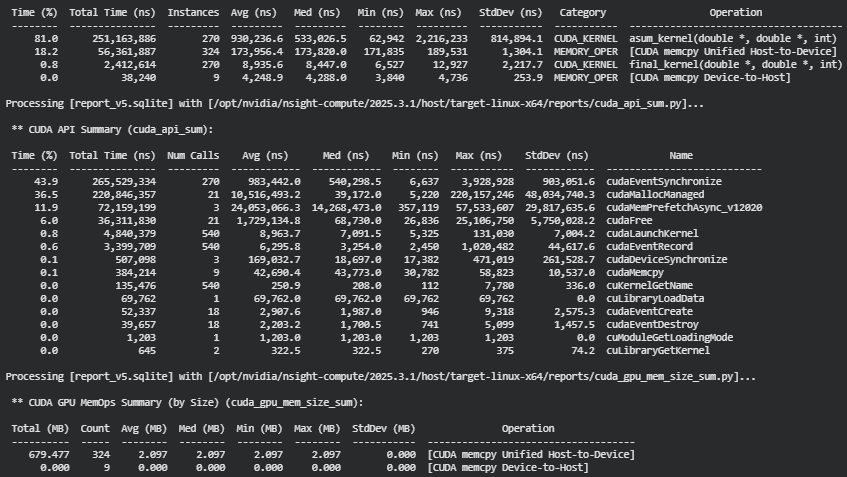
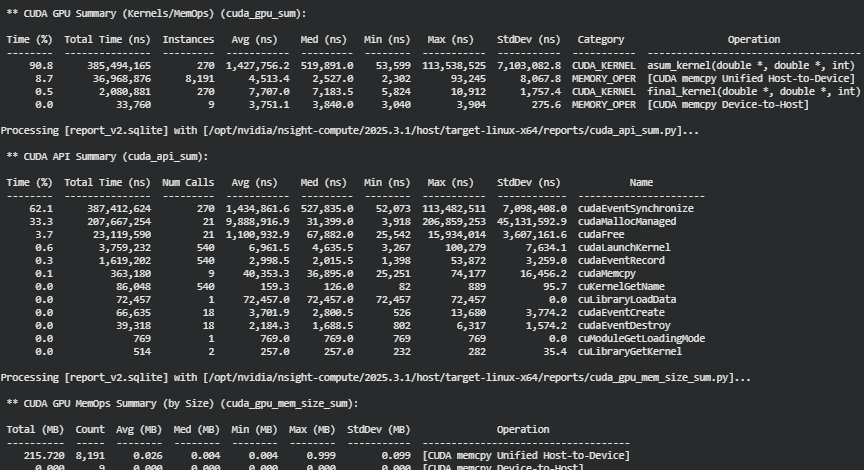
updated information to match ss

Changed region(s): [[0.0, 0.0, 1.0, 1.0]]

diff --git a/README.md b/README.md
@@ -75,35 +75,83 @@ The C implementation serves as the baseline for checking the correctness of the 
 
 ### CUDA V2: Unified Memory without Prefetch
 
-![CUDA V2 Output](Screenshots/nvcc/CudaV2_2^20.png)
+**2^20:**
 
 ![CUDA V2 Output](Screenshots/nvcc/CudaV2_2^20.png)
 
-![CUDA V2 Output](Screenshots/nvcc/CudaV2_2^20.png)
+![CUDA V2 Output](Screenshots/nvcc/CudaV2_2^20_C.png)
+
+**2^24:**
+
+![CUDA V2 Output](Screenshots/nvcc/CudaV2_2^24.png)
+
+![CUDA V2 Output](Screenshots/nvcc/CudaV2_2^24_C.png)
+
+**2^26:**
+
+![CUDA V2 Output](Screenshots/nvcc/CudaV2_2^26.png)
+
+![CUDA V2 Output](Screenshots/nvcc/CudaV2_2^26_C.png)
 
 ### CUDA V3: Unified Memory with Prefetch
 
+**2^20:**
+
 ![CUDA V3 Output](Screenshots/nvcc/CudaV3_2^20.png)
+
+![CUDA V3 Output](Screenshots/nvcc/CudaV3_2^20_C.png)
+
+**2^24:**
 
 ![CUDA V3 Output](Screenshots/nvcc/CudaV3_2^24.png)
 
+![CUDA V3 Output](Screenshots/nvcc/CudaV3_2^24_C.png)
+
+**2^26:**
+
 ![CUDA V3 Output](Screenshots/nvcc/CudaV3_2^26.png)
+
+![CUDA V3 Output](Screenshots/nvcc/CudaV3_2^26_C.png)
 
 ### CUDA V4: Unified Memory with Prefetch and Explicit Page Creation
 
+**2^20:**
+
 ![CUDA V4 Output](Screenshots/nvcc/CudaV4_2^20.png)
+
+![CUDA V4 Output](Screenshots/nvcc/CudaV4_2^20_C.png)
+
+**2^24:**
 
 ![CUDA V4 Output](Screenshots/nvcc/CudaV4_2^24.png)
 
+![CUDA V4 Output](Screenshots/nvcc/CudaV4_2^24_C.png)
+
+**2^26:**
+
 ![CUDA V4 Output](Screenshots/nvcc/CudaV4_2^26.png)
+
+![CUDA V4 Output](Screenshots/nvcc/CudaV4_2^26_C.png)
 
 ### CUDA V5: Unified Memory with Prefetch, Explicit Page Creation, and Memory Advice
 
+**2^20:**
+
 ![CUDA V5 Output](Screenshots/nvcc/CudaV5_2^20.png)
+
+![CUDA V5 Output](Screenshots/nvcc/CudaV5_2^20_C.png)
+
+**2^24:**
 
 ![CUDA V5 Output](Screenshots/nvcc/CudaV5_2^24.png)
 
+![CUDA V5 Output](Screenshots/nvcc/CudaV5_2^24_C.png)
+
+**2^26:**
+
 ![CUDA V5 Output](Screenshots/nvcc/CudaV5_2^26.png)
+
+![CUDA V5 Output](Screenshots/nvcc/CudaV5_2^26_C.png)
 
 All CUDA configurations passed the correctness checks against the C implementation.
 
@@ -135,10 +183,10 @@ Across the four CUDA variants, the `asum_kernel` accounts for the largest portio
 
 | Variant | Kernel Execution Time | Kernel Percentage | Unified Memory HtoD Time | HtoD Percentage |
 |---|---:|---:|---:|---:|
-| V2 | 390.048 ms | 91.2% | 36.079 ms | 8.4% |
-| V3 | 241.486 ms | 80.6% | 56.309 ms | 18.8% |
-| V4 | 239.361 ms | 80.5% | 56.300 ms | 18.9% |
-| V5 | 240.870 ms | 80.5% | 56.333 ms | 18.8% |
+| V2 | 385.494 ms | 90.8% | 36.969 ms | 8.7% |
+| V3 | 261.944 ms | 81.6% | 56.326 ms | 17.5% |
+| V4 | 251.452 ms | 81.0% | 56.340 ms | 18.2% |
+| V5 | 251.164 ms | 81.0% | 56.362 ms | 18.2% |
 
 
 The profiling results show that GPU kernel execution accounts for the largest portion of GPU activity across all four CUDA variants. The main ASUM kernel, `asum_kernel`, performs the majority of the computation, while the final reduction kernel, `final_kernel`, combines the partial sums produced by each block.
@@ -157,9 +205,9 @@ The following table presents the average execution time of the C implementation 
 
 | Array Size | C Answer Key | Average Execution Time | Minimum Time | Maximum Time |
 |---|---:|---:|---:|---:|
-| 2^20 | 549755289600 | 3.5865 ms | 3.306 ms | 3.925 ms |
-| 2^24 | 140737479966720 | 57.4267 ms | 55.989 ms | 60.720 ms |
-| 2^26 | 2251799780130816 | 239.9305 ms | 224.577 ms | 260.875 ms |
+| 2^20 | 549755289600 | 3.2959 ms | 3 ms | 3.667 ms |
+| 2^24 | 140737479966720 | 54.219 ms | 51.12 ms | 60.942 ms |
+| 2^26 | 2251799780130816 | 225.2845 ms | 209.655 ms | 257.67 ms |
 
 ### B. CUDA Average Kernel Execution Times
 
@@ -169,33 +217,33 @@ The following tables show the average kernel execution times of each CUDA varian
 
 | Array Size | Block Size 256 | Block Size 512 | Block Size 1024 |
 |---|---:|---:|---:|
-| 2^20 | 0.0481 ms | 0.0842 ms | 0.1707 ms |
-| 2^24 | 0.5161 ms | 0.5206 ms | 0.5230 ms |
-| 2^26 | 2.0549 ms | 2.0367 ms | 2.0394 ms |
+| 2^20 | 0.1623 ms | 0.1966 ms | 0.3329 ms |
+| 2^24 | 1.367 ms | 0.5605 ms | 0.7157 ms |
+| 2^26 | 5.3368 ms | 2.1433 ms | 2.0639 ms |
 
 #### CUDA V3: Unified Memory with Prefetch
 
 | Array Size | Block Size 256 | Block Size 512 | Block Size 1024 |
 |---|---:|---:|---:|
-| 2^20 | 0.0548 ms | 0.1017 ms | 0.2059 ms |
-| 2^24 | 0.5208 ms | 0.5248 ms | 0.5333 ms |
-| 2^26 | 2.0862 ms | 2.0777 ms | 2.0852 ms |
+| 2^20 | 0.0785 ms | 0.141 ms | 0.2939 ms |
+| 2^24 | 0.5364 ms | 0.5502 ms | 0.6174 ms |
+| 2^26 | 2.0776 ms | 2.088 ms | 2.0402 ms |
 
 #### CUDA V4: Unified Memory with Prefetch and Explicit Page Creation
 
 | Array Size | Block Size 256 | Block Size 512 | Block Size 1024 |
 |---|---:|---:|---:|
-| 2^20 | 0.0525 ms | 0.0876 ms | 0.1754 ms |
-| 2^24 | 0.5246 ms | 0.5236 ms | 0.5247 ms |
-| 2^26 | 2.0995 ms | 2.0624 ms | 2.0519 ms |
+| 2^20 | 0.1087 ms | 0.1995 ms | 0.4191 ms |
+| 2^24 | 0.5395 ms | 0.553 ms | 0.6171 ms |
+| 2^26 | 2.1234 ms | 2.1225 ms | 2.2456 ms |
 
 #### CUDA V5: Unified Memory with Prefetch, Explicit Page Creation, and Memory Advice
 
 | Array Size | Block Size 256 | Block Size 512 | Block Size 1024 |
 |---|---:|---:|---:|
-| 2^20 | 0.0550 ms | 0.0971 ms | 0.1973 ms |
-| 2^24 | 0.5362 ms | 0.5324 ms | 0.5344 ms |
-| 2^26 | 2.0835 ms | 2.0728 ms | 2.0989 ms |
+| 2^20 | 0.0709 ms | 0.1233 ms | 0.2512 ms |
+| 2^24 | 0.5279 ms | 0.5359 ms | 0.5541 ms |
+| 2^26 | 2.0595 ms | 2.0353 ms | 2.0355 ms |
 
 All CUDA configurations passed the correctness check against the C answer key.
 
@@ -244,11 +292,11 @@ $$
 
 | Implementation | Average Execution Time | Speedup vs. C |
 |---|---:|---:|
-| C Baseline | 57.4267 ms | 1.00x |
-| CUDA V2 | 0.5161 ms | 111.27x |
-| CUDA V3 | 0.5208 ms | 110.27x |
-| CUDA V4 | 0.5246 ms | 109.47x |
-| CUDA V5 | 0.5362 ms | 107.10x |
+| C Baseline | 54.2189 ms | 1.00x |
+| CUDA V2 | 1.367 ms | 39.66x |
+| CUDA V3 | 0.5364 ms | 101.08x |
+| CUDA V4 | 0.5395 ms | 100.5x |
+| CUDA V5 | 0.5279 ms | 102.71x |
 
 **Note:** These speedup values compare the C execution time against CUDA kernel execution time only. They exclude memory setup operations, prefetching, and other overhead, so they do not represent the speedup of the entire CUDA program.
 
@@ -272,25 +320,25 @@ CUDA V2 does not perform explicit memory prefetching or page creation. Instead, 
 
 | Array Size | Prefetch Time |
 |---|---:|
-| 2^20 | 0.9062 ms |
-| 2^24 | 11.4364 ms |
-| 2^26 | 46.0979 ms |
+| 2^20 | 0.9368 ms |
+| 2^24 | 11.4888 ms |
+| 2^26 | 46.1292 ms |
 
 #### CUDA V4: Page Creation and Prefetch Setup Time
 
 | Array Size | Page Creation Time | Prefetch Time |
 |---|---:|---:|
-| 2^20 | 4.4716 ms | 0.9206 ms |
-| 2^24 | 61.7331 ms | 11.6792 ms |
-| 2^26 | 245.2605 ms | 46.0528 ms |
+| 2^20 | 2.6692 ms | 0.8745 ms |
+| 2^24 | 40.1488 ms | 11.453 ms |
+| 2^26 | 167.4297 ms | 45.3366 ms |
 
 #### CUDA V5: Page Creation and Advice + Prefetch Setup Time
 
 | Array Size | Page Creation Time | Advice + Prefetch Time |
 |---|---:|---:|
-| 2^20 | 4.0491 ms | 2.0503 ms |
-| 2^24 | 63.4047 ms | 27.9499 ms |
-| 2^26 | 275.9889 ms | 93.6388 ms |
+| 2^20 | 2.6732 ms | 1.4257 ms |
+| 2^24 | 40.7880 ms | 20.0639 ms |
+| 2^26 | 178.1171 ms | 88.8462 ms |
 
 The results show that memory preparation introduces additional overhead before kernel execution. This overhead becomes more significant as the array size increases, particularly for the variants that perform explicit page creation. Therefore, kernel execution time alone does not represent the total time required by each CUDA implementation.
 
@@ -320,7 +368,7 @@ The C implementation serves as the baseline for the CUDA speedup calculations.
 
 At 2^24 elements and a block size of 256, all four CUDA variants achieved substantially lower average kernel execution times than the C baseline.
 
-CUDA V2 achieved the highest measured kernel speedup at approximately 111.27x, followed by CUDA V3 at 110.27x, CUDA V4 at 109.47x, and CUDA V5 at 107.10x.
+CUDA V5 achieved the highest measured kernel speedup at approximately 102.71x, followed by CUDA V3 at 101.08x, CUDA V4 at 100.5x, and CUDA V2 at 39.66x.
 
 For the CPU implementations, SIMD YMM achieved the highest speedup among the x86-64 Assembly, SIMD XMM, and SIMD YMM implementations in the earlier benchmark.
 
@@ -364,14 +412,14 @@ The following results were collected for the selected `asum_kernel` configuratio
 
 | Metric | V2 | V3 | V4 | V5 |
 |---|---:|---:|---:|---:|
-| Kernel Duration | 559.49 µs | 561.41 µs | 569.63 µs | 571.33 µs |
-| DRAM Throughput | 90.28% | 88.04% | 90.23% | 88.64% |
-| L1/TEX Cache Throughput | 33.09% | 33.06% | 33.02% | 32.52% |
-| L2 Cache Throughput | 28.52% | 28.36% | 27.92% | 27.86% |
-| Compute Throughput | 70.78% | 70.77% | 71.32% | 69.93% |
+| Kernel Duration | 575.26 µs | 575.23 µs | 569.63 µs | 569.50 µs |
+| DRAM Throughput | 88.18% | 87.85% | 90.23% | 91.05% |
+| L1/TEX Cache Throughput | 33.20% | 32.99% | 33.02% | 33.20% |
+| L2 Cache Throughput | 26.68% | 26.69% | 27.92% | 26.95% |
+| Compute Throughput | 70.83% | 70.87% | 71.32% | 71.17% |
 | Registers per Thread | 22 | 22 | 22 | 22 |
-| Achieved Occupancy | 98.06% | 98.32% | 98.13% | 98.63% |
-| Active Warps per SM | 31.38 | 31.46 | 31.40 | 31.56 |
+| Achieved Occupancy | 98.39% | 98.08% | 98.13% | 98.52% |
+| Active Warps per SM | 31.49 | 31.39 | 31.40 | 31.53 |
 
 The results show that all four profiled CUDA variants achieved high occupancy, with achieved occupancy remaining above 98%. This indicates that a high proportion of the GPU's theoretical active warps were available during kernel execution.
 
